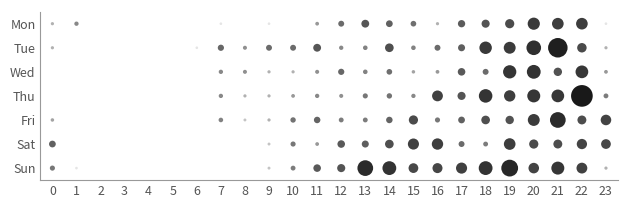
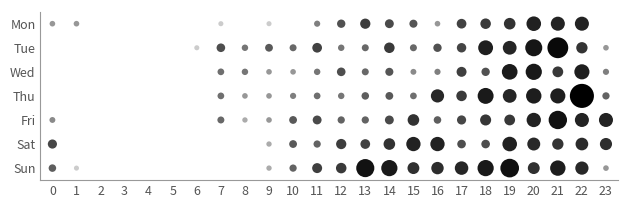
punchcard: Adjust circle rendering parameters

diff --git a/punchcard.py b/punchcard.py
@@ -60,8 +60,8 @@ def patches_for(api, id):
 
     for xy, count in counts.items():
         # These metrics need improving to allow cross-user comparisons
-        r = 0.4 * (count / maximum) + 0.05
-        alpha = 0.1 + 0.8 * math.log(count, maximum)
+        r = 0.4 * (count / maximum) + 0.1
+        alpha = 0.2 + 0.8 * math.log(count, maximum)
 
         yield matplotlib.patches.Circle(
             xy,
